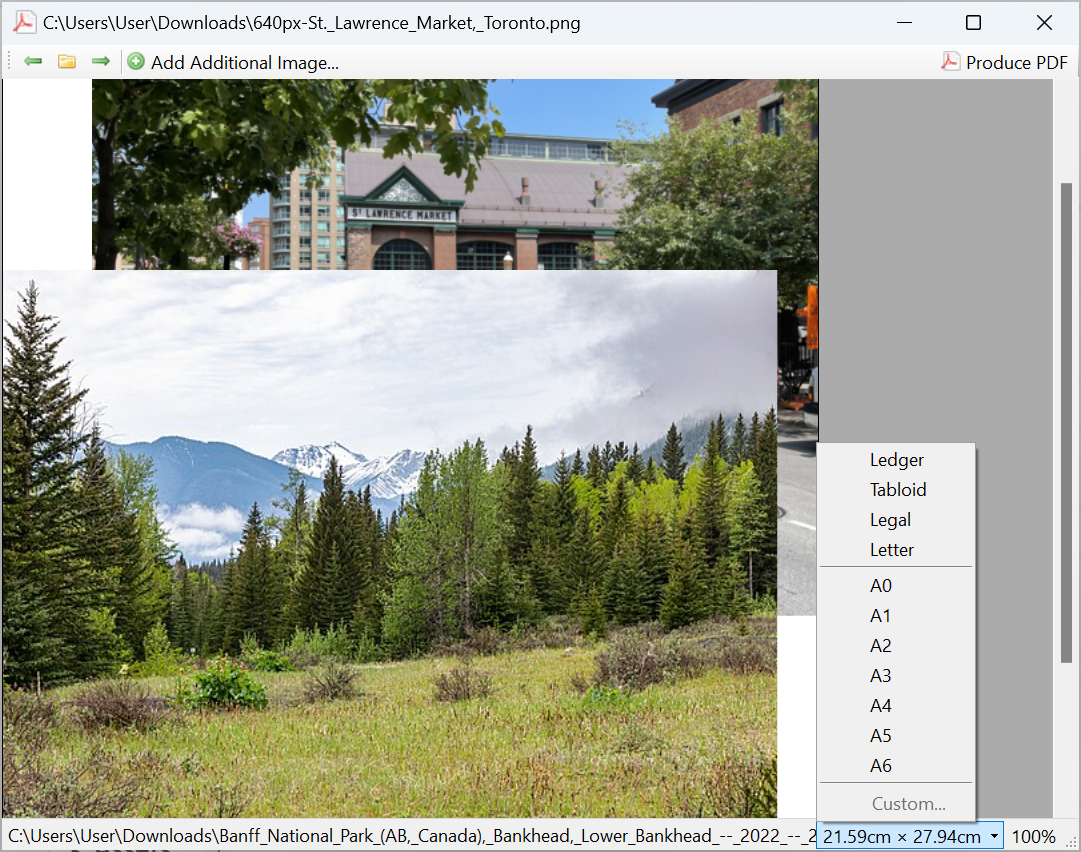
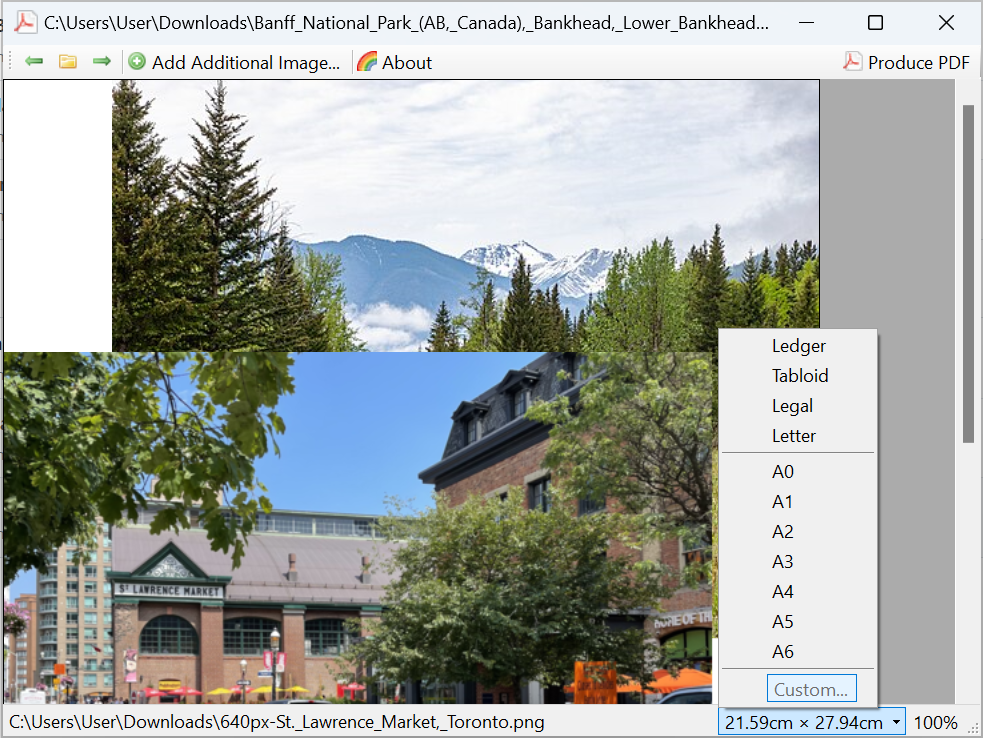
Final README screenshot and attribution updates

diff --git a/README.md b/README.md
@@ -20,9 +20,8 @@ dotnet build
 
 ## License
 PicturePDF is licensed underneath the [GNU General Public License], version 3.
-The icons `arrow_left.png`, `arrow_right.png`, `folder.png` and the
-`page_white_acrobat` files are from the [Silk] collection by Mark James
-(mjames at gmail dot com).
+The icons `arrow_left.png`, `rainbow.png`, `arrow_right.png`, `folder.png` and
+the `page_white_acrobat` files are from the [Silk] collection by Mark James.
 
 [WinForms]: https://docs.microsoft.com/en-us/dotnet/framework/winforms/
 [St. Lawrence Market]: https://commons.wikimedia.org/wiki/File:St._Lawrence_Market,_Toronto.png
